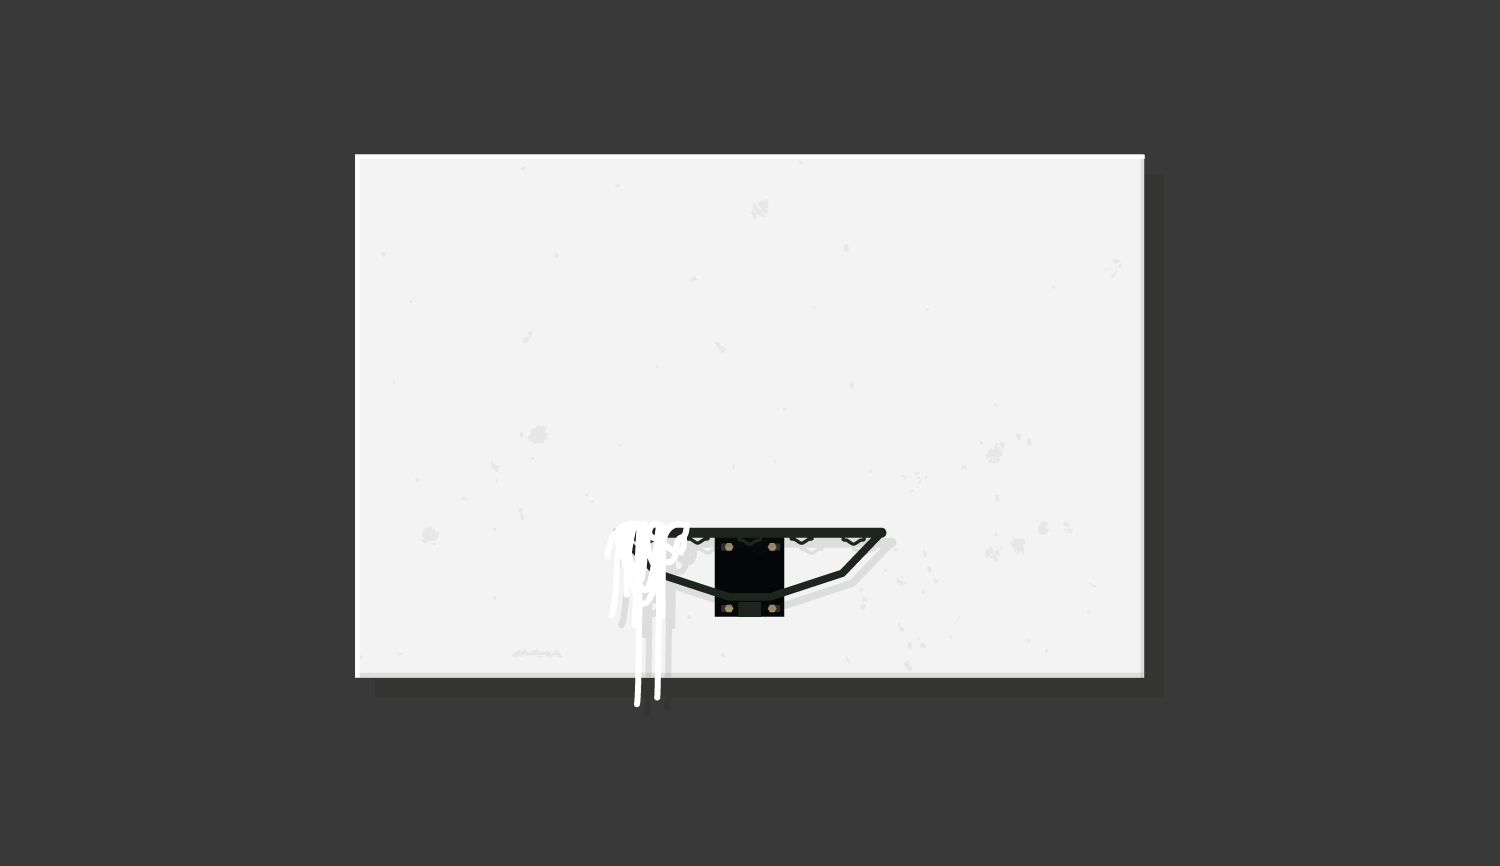
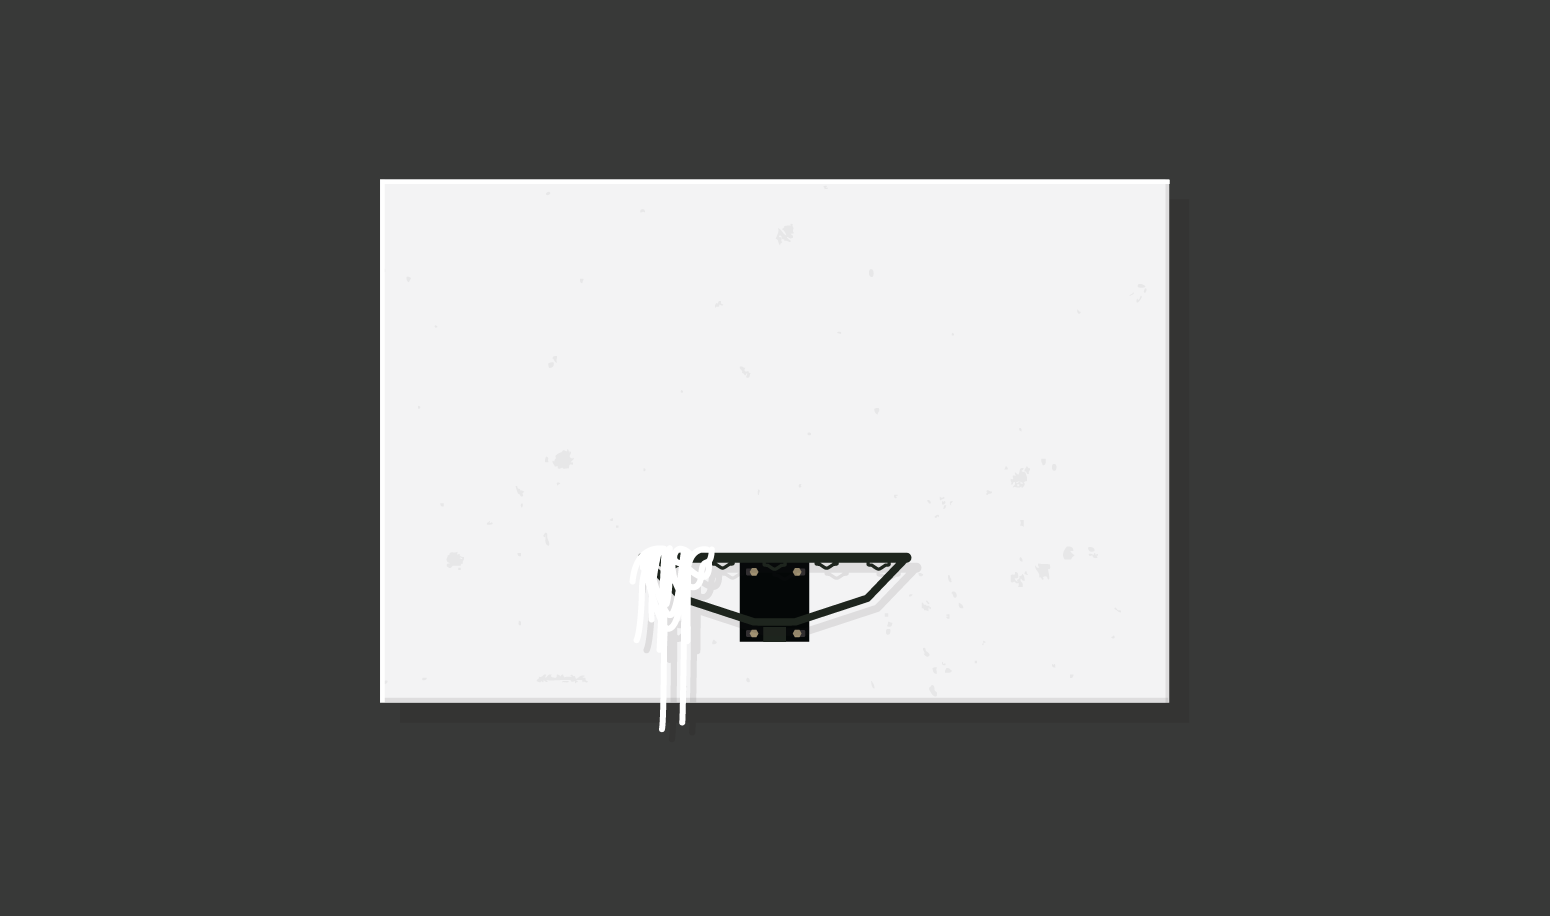
updating hoop dimensions, added gif ball

Changed region(s): [[0.2147, 0.1559, 0.7667, 0.8106], [0.4293, 0.5924, 0.6133, 0.7171]]

diff --git a/_js/script.js b/_js/script.js
@@ -122,10 +122,17 @@ $(document).ready(function() {
 
 	// mouseenter the about-txt-mod
 	// setTimout for ...whatever ms, 200
-		// that time tells page to scroll to top of #about
+		// that time tells page to scroll to top of #about and adds class envelope-open
 	$('.about-txt-mod').on('mouseenter', function() {
 		$("html, body").delay(200).stop().animate({ scrollTop: $('#about').offset().top }, 300);
+		$('.about-txt-mod').addClass('envelope-open');
 	});
+
+	//randomize which ball is loaded on the site
+	var images = ['site-ball-7.png', 'site-ball-6.png', 'site-ball-8.png', 'site-ball-9.png'];
+	$('<img src="_img/' + images[Math.floor(Math.random() * images.length)] + '">').appendTo('.site-ball-mod');
+
+
 
 	//when the page loads...
 	//if the window width < 761px
@@ -134,4 +141,8 @@ $(document).ready(function() {
 	//when the window resizes...
 	//if the window width < 761px
 	//then set the height of #nav-list-mod to the window height
+
+	//rotate ball on scroll 
+		// var theta = $(window).scrollTop() % Math.PI;
+		// $('#cog').css({ transform: 'rotate(' + theta + 'rad)' });
 });

diff --git a/_css/screen.css b/_css/screen.css
@@ -413,7 +413,7 @@ h3 {
   transition: all 0.2s ease-in-out;
 }
 .body-txt a:hover, bio-txt a:hover {
-  color: #2f2937;
+  color: #24B5B5;
   -webkit-transition: all 0.2s ease-in-out;
   -moz-transition: all 0.2s ease-in-out;
   -o-transition: all 0.2s ease-in-out;
@@ -781,7 +781,7 @@ header {
 .scroll-arrow {
   max-width: 40px;
   position: absolute;
-  bottom: 25px;
+  bottom: 35px;
   z-index: 666;
   left: 50%;
 }
@@ -897,6 +897,12 @@ header {
   pointer-events: none;
 }
 
+.missed-shot {
+  position: absolute;
+  top: 0px;
+  z-index: 333;
+}
+
 /* ============================================= */
 /*	About  								   	     */
 /* ============================================= */
@@ -949,7 +955,8 @@ header {
     margin-bottom: -860px;
   }
 }
-.about-txt-mod:hover {
+
+.envelope-open {
   margin-bottom: 0px;
   -webkit-transition: all 0.2s ease-in-out;
   -moz-transition: all 0.2s ease-in-out;

diff --git a/index.html b/index.html
@@ -39,8 +39,7 @@
 
 <body>
 
-	<div class="site-ball-mod absolute-ball">
-		<img class="site-ball" src="_img/site-ball-6.png"/>
+	<div id="cog" class="site-ball-mod absolute-ball random">
 	</div> <!-- /site-ball-mod -->
 
 	<div id="container">
@@ -128,7 +127,7 @@
 
 				<div class="stream-item hoop-3 south-end" data-location="south-end">
 					<img class="net-img" src="_img/hoops/hoop-3-net.png"/>
-					<img src="_img/hoops/hoop-3.png"/>
+					<img src="_img/hoops/hoop-3.gif"/>
 					<div class="item-details-mod">
 						<a class="stream-link" href="https://maps.google.com/maps?q=plympton+and+harrison+boston&ll=42.339894,-71.068497&spn=0.026202,0.037036&hnear=Harrison+Ave+%26+Plympton+St,+Boston,+Suffolk,+Massachusetts+02118&t=m&z=15" target="_blank">
 						<div class="item-details">

diff --git a/_src/screen.scss b/_src/screen.scss
@@ -73,7 +73,7 @@ h3 {
 		@include trans;
 
 		&:hover {
-			color: darken(#615472, 20%);
+			color: #24B5B5;
 			@include trans;
 		}//hover
 	}//a
@@ -411,7 +411,7 @@ header {
 .scroll-arrow {
 	max-width: 40px;
 	position: absolute;
-	bottom: 25px;
+	bottom: 35px;
 	z-index: 666;
 	left: 50%;
 
@@ -528,6 +528,11 @@ header {
 	pointer-events: none;
 }
 
+.missed-shot {
+	position: absolute;
+	top: 0px;
+	z-index: 333;
+}
 
 /* ============================================= */
 /*	About  								   	     */ 
@@ -577,13 +582,12 @@ header {
 		padding: 80px 80px 90px 80px;
 		margin-bottom: -860px;
 	}//mq
-
-	&:hover {
-		margin-bottom: 0px;
-		@include trans;
-	}
-
 }//about-txt-mod
+
+.envelope-open {
+	margin-bottom: 0px;
+	@include trans;
+}
 
 .about-signature {
 	img {
